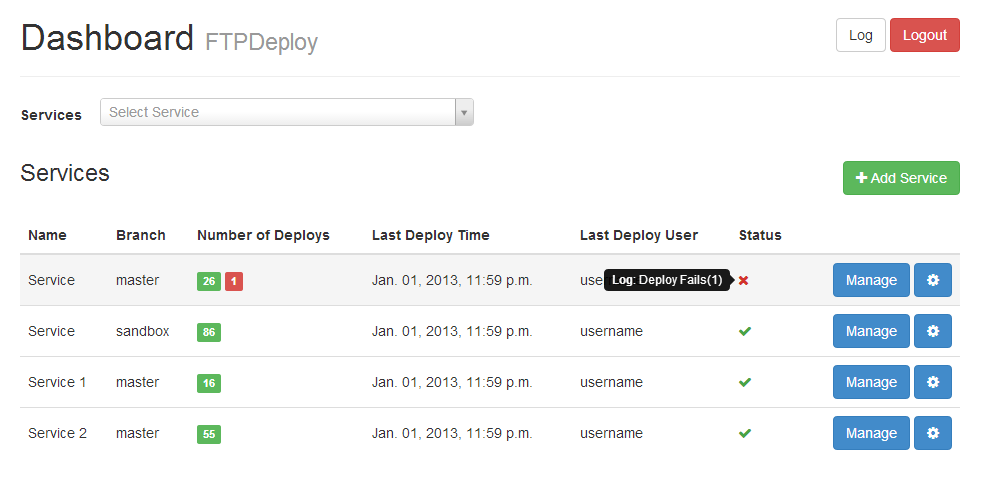
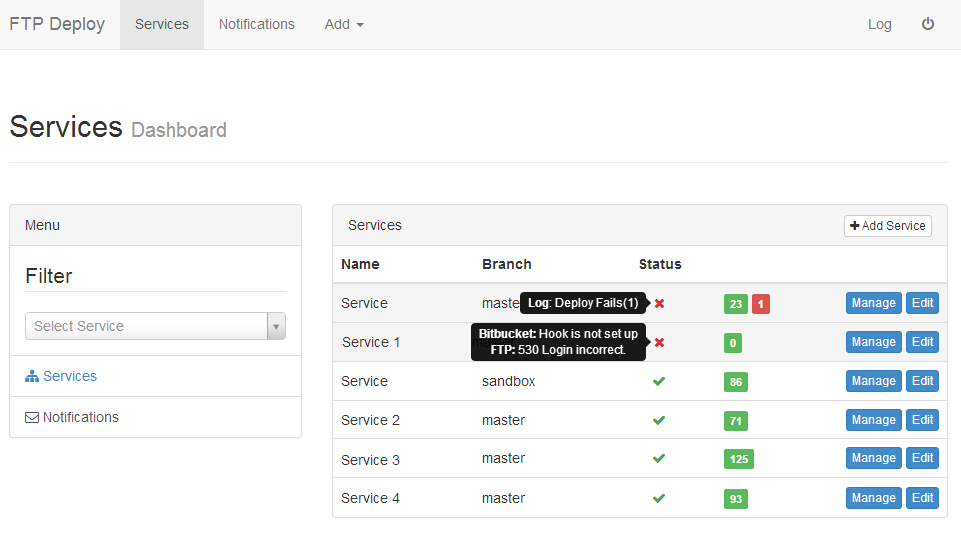
documentation updates

diff --git a/docs/getinvolved.rst b/docs/getinvolved.rst
@@ -19,11 +19,11 @@ Introduction
 
 
 3. Install application as described in :ref:`installation <installation>` section.
-4. Install all requirements for developing module. In order to do this, go to root directory of unziped file, and run::
+4. Install all requirements for developing module. Go to root directory of unziped files and use pip::
    
      pip install -r requirements/dev.txt
 
-5. Add ``FTP_TEST_SETTINGS`` configuration to your settings (testing purposes only)
+5. Add ``FTP_TEST_SETTINGS`` configuration to your settings
    
    .. code-block:: python
 
@@ -49,10 +49,9 @@ Introduction
 Testing
 =======
 
-Application use `Nose <https://nose.readthedocs.org/en/latest/>`_ and  `Fabric <http://docs.fabfile.org/en/1.8/>`_ libraries to automate testing process. 
-For tests coverage statistics use `Coverage <https://pypi.python.org/pypi/coverage>`_ library.
+Application use `Nose <https://nose.readthedocs.org/en/latest/>`_ as test runner and  `Fabric <http://docs.fabfile.org/en/1.8/>`_ library to automate testing process. 
 
-In order to run tests go into *ftp_deploy/tests* directory and then run:
+In order to run tests go into *ftp_deploy/tests* directory and then:
 
 
 * *all* tests::
@@ -71,6 +70,7 @@ In order to run tests go into *ftp_deploy/tests* directory and then run:
 
    fab testi
 
-* *Extarnal Tests* only (FTP, Repository etc.)::
 
-   fab teste
+*Unit Tests* and *Integration Tests* accepts **module** attibute to specify module to test::
+
+   fab testu:module_name

diff --git a/docs/usage.rst b/docs/usage.rst
@@ -249,8 +249,8 @@ In order to see logs page you need to click ``Log`` button on the top of the pag
 
   /ftpdeploy/log
 
-Logs provide information about all activity on the FTP Deploy application. 
+Logs provide information about all activity in the FTP Deploy application. 
 
-In addition log list contain information about number of commits included in deploy. If you need to see more details about included commits, you can click the ``commits number`` to display more informations (commit message, commit user, raw node).
+In addition log list contain information about number of commits included in deploy. If you need to see more details about included commits, you can click the ``commits number`` (commit message, commit user, raw node).
 
 

diff --git a/docs/installation.rst b/docs/installation.rst
@@ -14,9 +14,8 @@ Required third party libraries are **installed automatically** if you use pip to
 1.  Django >= 1.5
 2. `pycurl <https://pypi.python.org/pypi/pycurl>`_
 3. `certifi <https://pypi.python.org/pypi/certifi>`_
-4. `south <https://pypi.python.org/pypi/South/>`_
-5. `django_braces <https://pypi.python.org/pypi/django-braces>`_
-6. `django_crispy_forms <https://pypi.python.org/pypi/django-crispy-forms>`_
+4. `django_braces <https://pypi.python.org/pypi/django-braces>`_
+5. `django_crispy_forms <https://pypi.python.org/pypi/django-crispy-forms>`_
 
 
 

diff --git a/docs/changelog.rst b/docs/changelog.rst
@@ -5,6 +5,17 @@ Changelog
 
 Changelog for django-ftp-deploy module
 
+v1.2.1
+------
+
+* unit and integration tests development
+* templates and style updates
+* 'skip deploy' bug fix
+* notification in service admin(django) page
+* code updates
+* PEP8 updates
+* documentation updates
+
 v1.2
 ----
 

diff --git a/docs/other.rst b/docs/other.rst
@@ -21,9 +21,11 @@ All screens are only for preview purposes, and may be different then original ap
  
 .. image:: images/manage.png
 
-3. Restore
+3. Notifications
   
-.. image:: images/restore.png
+.. image:: images/notifications.png
+
+.. image:: images/notifications1.png
 
 4. Log
   

diff --git a/docs/index.rst b/docs/index.rst
@@ -70,7 +70,6 @@ Roadmap
 * Cron validation
 * FTP password encryption
 * Advanced statistics
-* Full UnitTest and FunctionalTest cover
 
   
 
